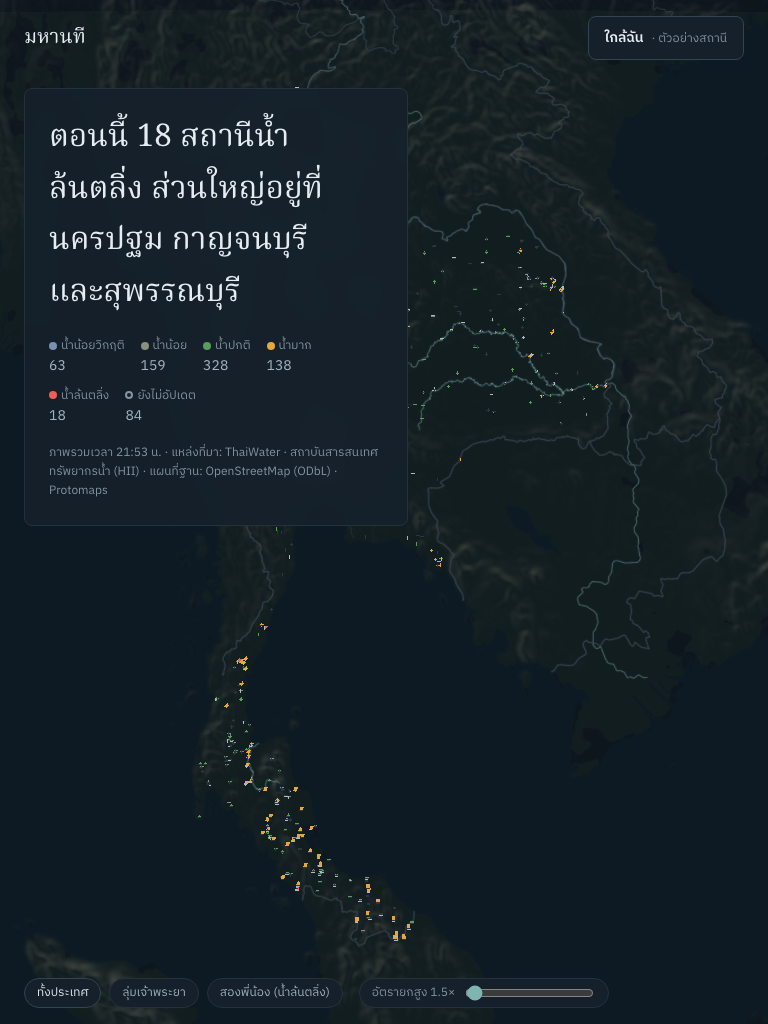
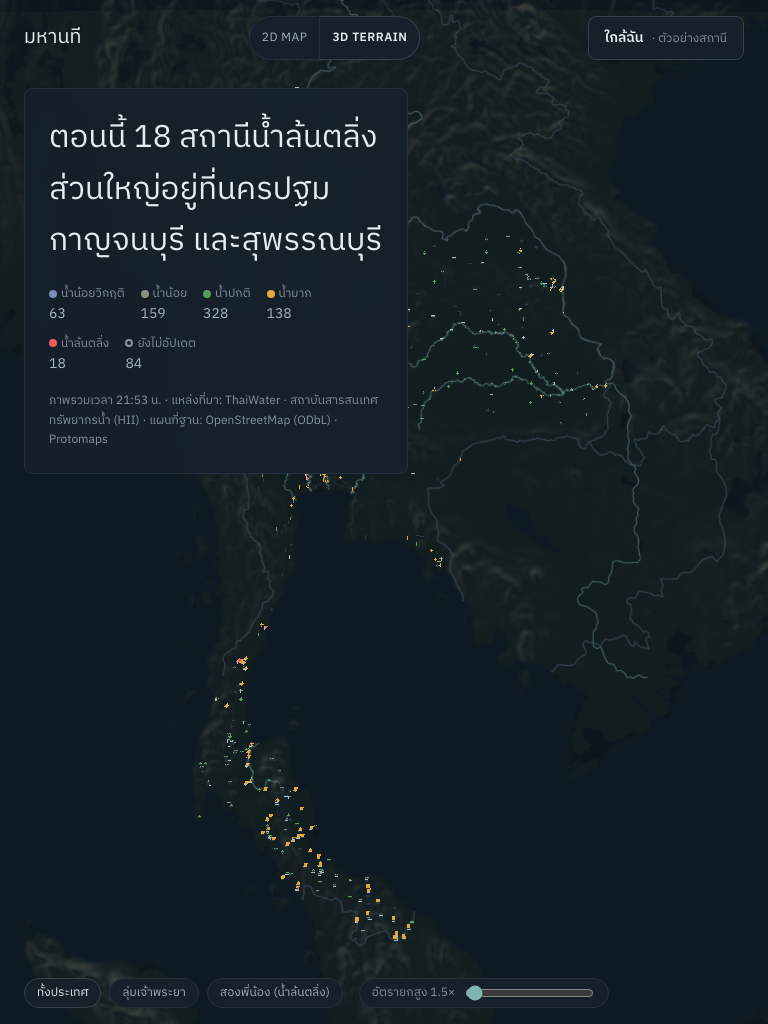
feat(web): all Thai type loopless - the serif retires (Phase 4 P0)
The owner's rule is all Thai loopless (no หัว), and the lead's
research confirmed the sentence face is the looped one: Noto Serif
Thai retires (ADR 0005 addendum records the confirmation and the
decision). The national and station sentences - and the wordmark -
render in Mahanathi Sans, keeping their hierarchy by size, leading
and the sentence tone colour, never by family (no letter-spacing:
tracking breaks Thai combining marks).

The serif's @font-face leaves the build; its WOFF2 stays beside the
fonts as the specimen's comparison material, promoted like the other
rejected candidates. Verified in-browser: the FontFaceSet holds only
the two sans faces, no serif WOFF2 is requested, the computed
sentence family is the sans stack (document.fonts.check's true for
the serif is the known fallback-resolution false positive). Gate
screenshots re-shot - every sentence and the wordmark changed face.

tsc/eslint clean, unit 35/35, gate spec 4/4.

diff --git a/web/src/design/fonts.css b/web/src/design/fonts.css
@@ -3,7 +3,10 @@
    OFL forbids the Reserved Font Name on modified versions; the OFL
    texts ship beside the files. The /specimen route also loads the
    rejected candidates for comparison - restore them with
-   scripts/research/promote_fonts.py (no arguments) and reload. */
+   scripts/research/promote_fonts.py (no arguments) and reload.
+   Noto Serif Thai is retired from the build (the loopless rule, ADR
+   0005 addendum); its WOFF2 stays beside the files as the specimen's
+   comparison material, promoted the same way as the others. */
 
 @font-face {
   font-family: 'Mahanathi Sans';
@@ -16,13 +19,6 @@
   font-family: 'Mahanathi Sans';
   src: url('/fonts/mahanathi-sans-600.woff2') format('woff2');
   font-weight: 600;
-  font-style: normal;
-  font-display: swap;
-}
-@font-face {
-  font-family: 'Noto Serif Thai';
-  src: url('/fonts/noto-serif-thai-400.woff2') format('woff2');
-  font-weight: 400;
   font-style: normal;
   font-display: swap;
 }

diff --git a/web/src/routes/Specimen.tsx b/web/src/routes/Specimen.tsx
@@ -73,6 +73,7 @@ export function Specimen() {
         </p>
         <p className="specimen__note">
           ตัดสินแล้วตาม ADR 0005 (IBM Plex Sans Thai + Noto Serif Thai)
+          ต่อมาถอน Noto Serif Thai ตามกฎไร้หัวตัวอักษรของเจ้าของ (ภาคผนวกของ ADR 0005)
           หลังจากนี้หน้านี้คงไว้เป็นหลักฐาน ฟอนต์ที่ไม่ถูกเลือกถูกลบออกจาก build
           ถ้าต้องการเปิดเปรียบเทียบสด ให้รัน scripts/research/promote_fonts.py แล้วรีเฟรชหน้านี้
         </p>

diff --git a/web/src/design/tokens.css b/web/src/design/tokens.css
@@ -34,7 +34,7 @@
   --situation-5: #ee5d58;
   --situation-stale: #5b6a75;
   --font-ui: 'Mahanathi Sans', 'Noto Sans Thai', sans-serif;
-  --font-sentence: 'Noto Serif Thai', 'Trirong', serif;
+  --font-sentence: 'Mahanathi Sans', 'Noto Sans Thai', sans-serif;
   --type-caption-size: 0.75rem;
   --type-caption-line-height: 1.5;
   --type-small-size: 0.875rem;

diff --git a/web/DESIGN.md b/web/DESIGN.md
@@ -39,7 +39,7 @@ typography:
     fontSize: "clamp(2.5rem, 1.5rem + 4vw, 4rem)"
     lineHeight: 1.3
   sentence:
-    fontFamily: "'Noto Serif Thai', 'Trirong', serif"
+    fontFamily: "'Mahanathi Sans', 'Noto Sans Thai', sans-serif"
     fontWeight: 400
     fontSize: "clamp(1.375rem, 1rem + 2vw, 2.125rem)"
     lineHeight: 1.65
@@ -67,7 +67,7 @@ typography:
     fontSize: "0.75rem"
     lineHeight: 1.5
   wordmark:
-    fontFamily: "'Noto Serif Thai', 'Trirong', serif"
+    fontFamily: "'Mahanathi Sans', 'Noto Sans Thai', sans-serif"
     fontWeight: 400
     fontSize: "1.25rem"
     lineHeight: 1.2
@@ -136,7 +136,7 @@ components:
 
 Picture the national survey's plaster relief model of Thailand in a dark map room, lit only where water is being measured right now. Everything visible is either geography, data, or the words that explain the data. The relief is the page: there is no landing page, no hero section, no feature cards, no footer — the first frame *is* the product (Thailand in relief, the current state of every gauge, one computed sentence about the country now). Chrome is nearly absent, in the earth.nullschool sense: a wordmark, one primary action (**ใกล้ฉัน**), and quiet panels that float over the terrain.
 
-Restraint is the luxury. The palette comes from the subject — night slate (never `#000`), the ochre of Chao Phraya floodwater, muted paddy green, one disciplined alert family — and every colour lives in one TypeScript module (`web/src/design/tokens.ts`) that generates the CSS custom properties (`tokens.css`, via `pnpm tokens:css`, with a drift test). Shaders import the module directly, so no colour exists outside it. The 3D pipeline is deliberately flat (`NoToneMapping` Canvas, explicit output-colour-space chunks in both custom shaders) so a token colour that survives lighting reaches the screen exactly: the national screenshot samples the sea and ground back at their token hexes (ADR 0006). Type is Thai-first: Mahanathi Sans (IBM Plex Sans Thai, OFL-renamed, 400/600) for the UI and numbers, Noto Serif Thai 400 for the human sentence (ADR 0005). Motion is exponential ease-out, 160–260 ms for UI, one 1600 ms interruptible camera flight as the single authored moment; `prefers-reduced-motion` cuts instead of flying.
+Restraint is the luxury. The palette comes from the subject — night slate (never `#000`), the ochre of Chao Phraya floodwater, muted paddy green, one disciplined alert family — and every colour lives in one TypeScript module (`web/src/design/tokens.ts`) that generates the CSS custom properties (`tokens.css`, via `pnpm tokens:css`, with a drift test). Shaders import the module directly, so no colour exists outside it. The 3D pipeline is deliberately flat (`NoToneMapping` Canvas, explicit output-colour-space chunks in both custom shaders) so a token colour that survives lighting reaches the screen exactly: the national screenshot samples the sea and ground back at their token hexes (ADR 0006). Type is Thai-first and loopless: Mahanathi Sans (IBM Plex Sans Thai, OFL-renamed, 400/600) for everything — the UI, the numbers and the human sentence (ADR 0005 and its loopless addendum; the serif is retired). Motion is exponential ease-out, 160–260 ms for UI, one 1600 ms interruptible camera flight as the single authored moment; `prefers-reduced-motion` cuts instead of flying.
 
 This system was proved on the dev surfaces `/lookdev`, `/specimen` and `/color` (Phase 3), gated item-by-item against the anti-slop checklist in `docs/brief/01-DESIGN-DIRECTION.md` §10 with screenshot evidence in `docs/design/screens/phase-3/` and the scored pass in `docs/design/GATE-phase-3.md`. Phase 4 extends this world; it must not average it away.
 
@@ -190,14 +190,14 @@ Every situation colour passes WCAG AA as small text on ground, panel and elevate
 ## Typography
 
 **UI and Numbers Font:** Mahanathi Sans (IBM Plex Sans Thai 400/600, self-hosted hinted WOFF2 subsets; fallback `'Noto Sans Thai', sans-serif`)
-**Sentence Font:** Noto Serif Thai 400 (self-hosted, unhinted; fallback `'Trirong', serif`)
+**Sentence Font:** Mahanathi Sans 400 — the sentence's hierarchy is size, leading and the tone colour, never family. Noto Serif Thai carried the sentence until the loopless rule retired it (ADR 0005 addendum).
 **Label/Mono Font:** none — all chosen figures are already tabular; mono was considered and rejected (ADR 0005).
 
-**Character:** an engineered loopless Thai sans with a harmonised Latin (one team drew both scripts) carries the instrument's voice; an upright Thai serif gives the one human sentence a second, quieter voice. The wordmark มหานที is set in the serif. Two families, distinct roles, no italic anywhere (every `@font-face` is `font-style: normal`).
+**Character:** one engineered loopless Thai sans with a harmonised Latin (one team drew both scripts) carries everything — the instrument's voice and the human sentence's. The sentence once had a second, quieter voice in an upright Thai serif; the owner's all-Thai-loopless rule (no หัว) retired it, and the hierarchy it carried now lives in size, leading and tone colour alone. The wordmark มหานที is the sans at weight 400. One family, no italic anywhere (every `@font-face` is `font-style: normal`).
 
 ### Hierarchy
 - **Display** (clamp(2.5rem → 4rem), 1.3): the scale's ceiling — display caps at 4rem against the brief's 6rem maximum.
-- **Sentence** (Noto Serif Thai 400, clamp(1.375rem, 1rem + 2vw, 2.125rem), 1.65): the human sentence, the typographic centrepiece of the answer panel; `text-wrap: balance`. Leading 1.65 because Thai stacked marks need room.
+- **Sentence** (Mahanathi Sans 400, clamp(1.375rem, 1rem + 2vw, 2.125rem), 1.65): the human sentence, the typographic centrepiece of the answer panel; `text-wrap: balance`. Leading 1.65 because Thai stacked marks need room.
 - **Title** (600, 1.375rem, 1.5) and **Title-sm** (600, 1.125rem, 1.5): station names and section heads.
 - **Body** (400, 1rem, 1.6): the default; Plex's worst measured ink box uses 84% of a 1.6 line box (ADR 0005).
 - **Small** (0.875rem, 1.55) and **Caption** (0.75rem, 1.5): subordinate readouts, meta lines, measured time and source credits.

diff --git a/docs/adr/0005-typography.md b/docs/adr/0005-typography.md
@@ -119,3 +119,35 @@ measured ink extents.
 - Every string the product sets is covered by the subset character set
   (`scripts/research/subset_sizes.sh`'s UNICODEES); anything new needs
   a subset rebuild, which the promote script does.
+
+## Addendum (2026-10-30, Phase 4): the serif retires — the loopless rule
+
+The owner's direction for Phase 4: **all Thai type loopless (no หัว)**.
+The lead's research (recorded in `process/prompts/phase-4.md`, verified
+against Google Fonts' live specimen pages —
+`fonts.google.com/specimen/IBM+Plex+Sans+Thai`,
+`fonts.google.com/specimen/Noto+Serif+Thai`) confirmed what the
+decision's own material implies: IBM Plex Sans Thai is a loopless
+design, while Noto Serif Thai — the sentence face this ADR chose — is
+the looped one. A looped face cannot stay once the rule is the
+owner's.
+
+**Decision: Noto Serif Thai is retired from the product.** The
+national and station sentences render in Mahanathi Sans, keeping
+their hierarchy by size, leading and the sentence tone colour — never
+by family (no letter-spacing: tracking breaks Thai combining marks).
+The wordmark follows (it was the serif's other job).
+
+Consequences:
+
+- The `@font-face` for Noto Serif Thai is removed from the build
+  (`fonts.css`); the WOFF2 and its OFL text stay beside the fonts as
+  the specimen's comparison material, promoted like every other
+  rejected candidate by `scripts/research/promote_fonts.py`.
+- `sentenceStack` in `tokens.ts` is the UI stack; the serif's
+  fallbacks (Trirong) leave with it.
+- The payload drops by the serif's ~16 KB (the 64 KB figure above was
+  the pairing's; the loopless build is ~48 KB).
+- The pairing judgement this ADR recorded stands as history — the
+  specimen evidence is unchanged — and this addendum records why the
+  second voice left: an owner's rule outranks a specimen's preference.
